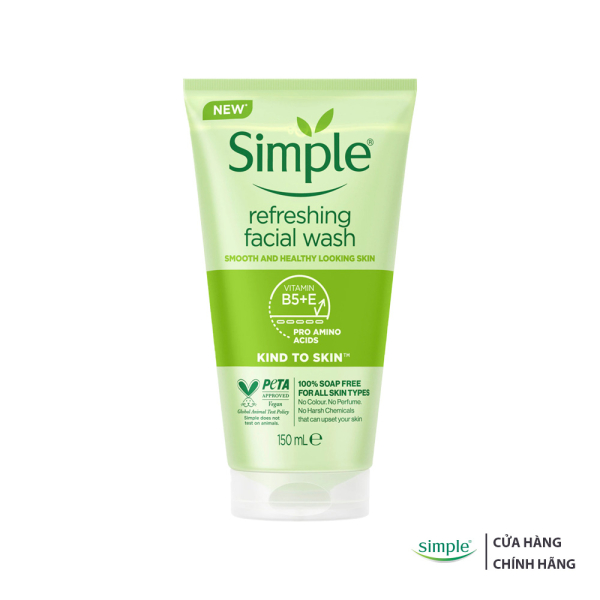
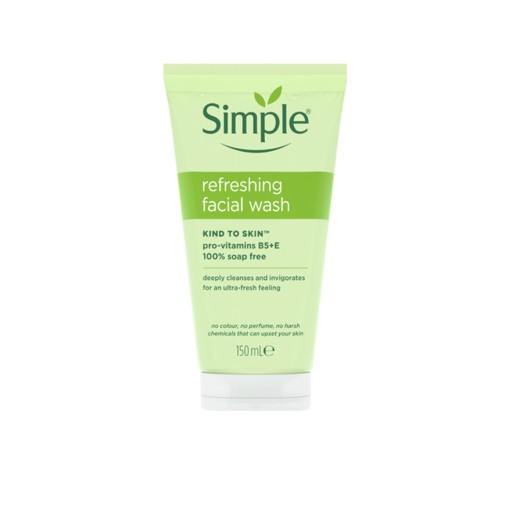
fix: replace catalog photos carrying retailer branding

Changed region(s): [[0.2941, 0.1176, 0.7059, 0.8824], [0.6765, 0.8824, 0.9706, 0.9706]]

diff --git a/docs/catalog-images.md b/docs/catalog-images.md
@@ -1,0 +1,9 @@
+# Rà soát ảnh sản phẩm — 30/10/2026
+
+Đã xem trực quan toàn bộ 100 ảnh chính và 60 ảnh màu. Thay 18 ảnh chính có logo/watermark cửa hàng, khung gian hàng hoặc bố cục quảng cáo nhiều chữ, gồm CATALOG-003, 010, 013, 025, 027, 028, 029, 030, 036, 037, 040, 051, 056, 057, 080, 091, 092, 094. Giữ nhận diện thương hiệu thật trên bao bì và tên màu; không tạo ảnh giả cho sản phẩm.
+
+Ưu tiên ảnh từ trang hãng, dùng ảnh packshot từ nhà bán lẻ khi trang hãng không cung cấp ảnh truy cập được. Ảnh Estée Lauder dùng lại ảnh sạch cùng dòng sản phẩm đã có trong thư viện màu. Mỗi ảnh được đối chiếu tên sản phẩm, dung tích và xem trước khi thay. Chỉ đổi định dạng/giảm kích thước tối đa 1200 px, không tẩy watermark, không crop ảnh để giấu logo.
+
+Giữ nguyên đường dẫn `/images/catalog/...` để các sản phẩm đang lưu trong MySQL, giỏ hàng và ảnh chụp đơn hàng dùng ngay ảnh mới sau khi khởi động lại. Không chạy seed ghi đè hay thay giá/tồn kho/chỉnh sửa của admin. Metadata trong catalog JSON được cập nhật cho các lần nhập mới; metadata nguồn cũ trong bản ghi MySQL hiện có không bị sửa.
+
+Chi tiết ảnh, trang đối chiếu, ngày kiểm tra và mã SHA-256 trước/sau ở [catalog-image-audit-2026-10-30.json](catalog-image-audit-2026-10-30.json). Thông tin đối chiếu chỉ phục vụ bảo trì dự án, không thêm nhãn nguồn hay liên kết shop khác trên giao diện bán hàng.
